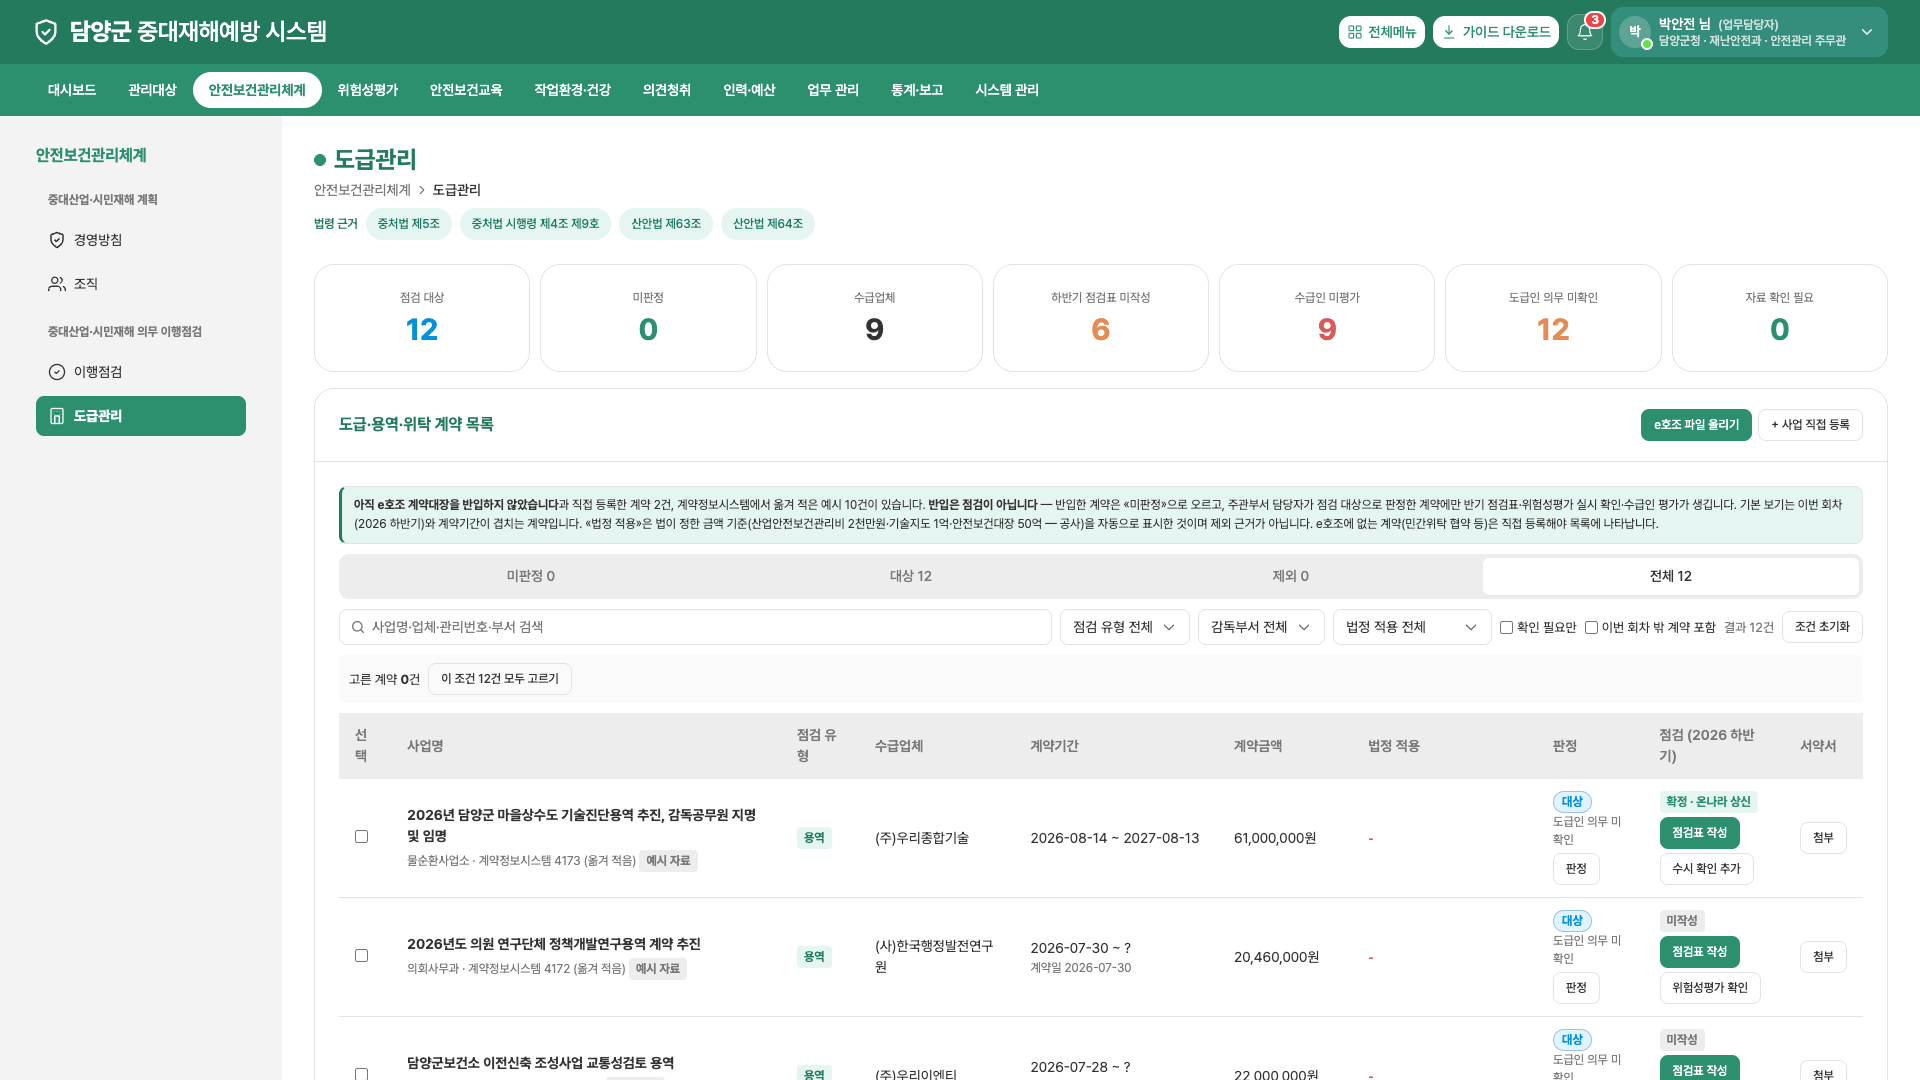
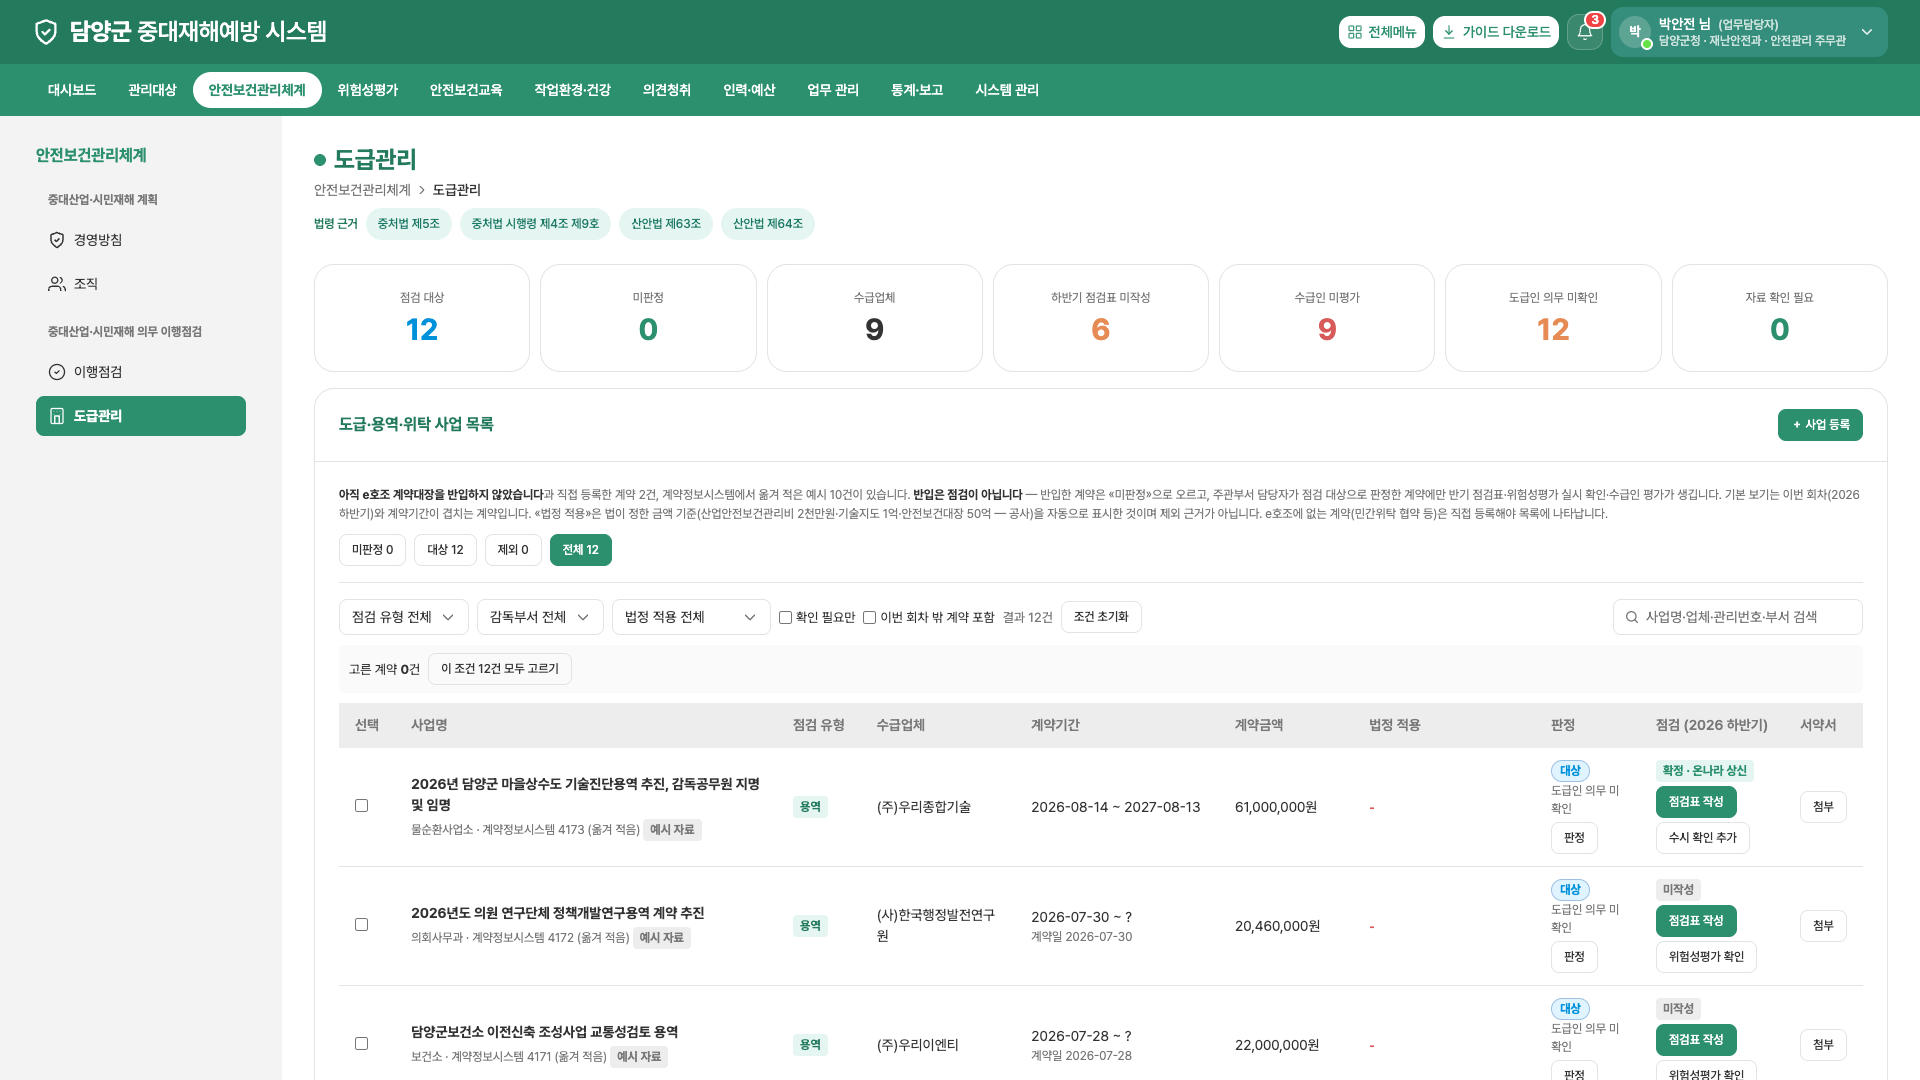
소개 자료 — 도급 계약 목록을 운영 배치로 맞추고 C06·C07 재캡처
운영 화면 스킨이 켜졌을 때만:
- 안내문을 회색 본문으로, 판정 탭을 따로 선 버튼으로, 검색칸을 필터 줄 오른쪽 끝으로
- 표 머리 한 줄 유지
- 카드 제목 «도급·용역·위탁 사업 목록», 버튼 «＋ 사업 등록» 하나(기존 직접 등록과 같은 창)
기본 화면의 제목·버튼(e호조 파일 올리기 포함)은 그대로다. menu.js 에는 스킨용 훅
클래스(con-notice·con-tabs·con-filters)와 스킨 분기만 더했다.

diff --git a/js/menu.js b/js/menu.js
@@ -2485,9 +2485,9 @@
             const condN = ['q', 'cat', 'dept', 'legal'].filter(k => S[k]).length + (S.flag ? 1 : 0) + (S.wide ? 1 : 0);
             const tabN = t => t === '전체' ? base.length : base.filter(r => r.judge === t).length;
             const filterBar =
-                '<div class="tabs" role="tablist" style="margin-bottom:10px;">' + ['미판정', '대상', '제외', '전체'].map(t =>
+                '<div class="tabs con-tabs" role="tablist" style="margin-bottom:10px;">' + ['미판정', '대상', '제외', '전체'].map(t =>
                     '<button type="button" role="tab" class="tab' + (S.tab === t ? ' active' : '') + '" aria-selected="' + (S.tab === t) + '" onclick="PG.conTab(\'' + t + '\')">' + t + ' ' + tabN(t).toLocaleString() + '</button>').join('') + '</div>' +
-                '<div style="display:flex; flex-wrap:wrap; gap:var(--sp-2); align-items:center; margin-bottom:10px;">' +
+                '<div class="con-filters" style="display:flex; flex-wrap:wrap; gap:var(--sp-2); align-items:center; margin-bottom:10px;">' +
                     '<input type="search" id="cn-q" class="form-input" style="min-width:220px; flex:1;" placeholder="사업명·업체·관리번호·부서 검색" value="' + esc(S.q) + '" oninput="PG.conQ(this)">' +
                     (catsHere.length > 1 ? '<select class="form-select" style="width:auto;" aria-label="점검 유형" onchange="PG.conSet(\'cat\', this.value)">' + opt('', '점검 유형 전체', S.cat) + catsHere.map(c => opt(c, c, S.cat)).join('') + '</select>' : '') +
                     (deptsHere.length > 1 ? '<select class="form-select" style="width:auto;" aria-label="감독부서" onchange="PG.conSet(\'dept\', this.value)">' + opt('', '감독부서 전체', S.dept) + deptsHere.map(d => opt(d, d, S.dept)).join('') + '</select>' : '') +
@@ -2509,6 +2509,7 @@
                       '</div>'
                     : '');
 
+            const opsSkin = document.documentElement.getAttribute('data-skin') === 'ops';
             const heads = (C.canManage() ? ['선택'] : []).concat(['사업명', '점검 유형', '수급업체', '계약기간', '계약금액', '법정 적용', '판정', '점검 (' + rd.label + ')', '서약서']);
             const table = pageRows.length
                 ? tbl(heads, pageRows.map(r => (C.canManage()
@@ -2530,8 +2531,9 @@
                 [dutyUnknown ? 'warning' : 'success', dutyUnknown.toLocaleString(), '도급인 의무 미확인'],
                 [flagN ? 'danger' : 'success', flagN.toLocaleString(), '자료 확인 필요'],
             ]) +
-            sectionCard('도급·용역·위탁 계약 목록',
-                '<div class="check-notice" style="margin-bottom:10px;">' +
+            /* 운영 화면 스킨(캡처용)에서는 운영과 같은 제목·버튼을 쓴다 — 기본 화면은 그대로다. */
+            sectionCard(opsSkin ? '도급·용역·위탁 사업 목록' : '도급·용역·위탁 계약 목록',
+                '<div class="check-notice con-notice" style="margin-bottom:10px;">' +
                     (ehojoN
                         ? '<b>e호조 계약대장에서 반입한 계약 ' + ehojoN.toLocaleString() + '건</b>(최근 추출 기준일 ' + esc((liveImp && liveImp.extracted) || '-') + ')'
                         : '<b>아직 e호조 계약대장을 반입하지 않았습니다</b>') +
@@ -2539,10 +2541,12 @@
                     '<b>반입은 점검이 아닙니다</b> — 반입한 계약은 «미판정»으로 오르고, 주관부서 담당자가 점검 대상으로 판정한 계약에만 반기 점검표·위험성평가 실시 확인·수급인 평가가 생깁니다. ' +
                     '기본 보기는 이번 회차(' + rd.label + ')와 계약기간이 겹치는 계약입니다. «법정 적용»은 법이 정한 금액 기준(산업안전보건관리비 2천만원·기술지도 1억·안전보건대장 50억 — 공사)을 자동으로 표시한 것이며 제외 근거가 아닙니다. e호조에 없는 계약(민간위탁 협약 등)은 직접 등록해야 목록에 나타납니다.' +
                 '</div>' + filterBar + table,
-                '<div style="display:flex; gap:6px;">' +
-                    (C.canManage() ? '<button class="btn btn-sm btn-primary" onclick="PG.conImport()">e호조 파일 올리기</button>' : '') +
-                    (canAct() ? '<button class="btn btn-sm btn-outline" onclick="PG.conAdd()">+ 사업 직접 등록</button>' : '') +
-                '</div>') +
+                (opsSkin
+                    ? (canAct() ? '<button class="btn btn-sm btn-primary" onclick="PG.conAdd()">＋ 사업 등록</button>' : '')
+                    : '<div style="display:flex; gap:6px;">' +
+                        (C.canManage() ? '<button class="btn btn-sm btn-primary" onclick="PG.conImport()">e호조 파일 올리기</button>' : '') +
+                        (canAct() ? '<button class="btn btn-sm btn-outline" onclick="PG.conAdd()">+ 사업 직접 등록</button>' : '') +
+                      '</div>')) +
             sectionCard('수급인 안전보건 수준 평가',
                 (vendors.length
                     ? tbl(['업체', '대상 사업', '평가 시점', '상태', ''], vendors.map((v, ix) => [

diff --git a/css/ops-skin.css b/css/ops-skin.css
@@ -236,6 +236,18 @@ html[data-skin="ops"] .roc-toolbar + .check-notice > :not(:first-child) { displa
 html[data-skin="ops"] .roc-toolbar + .check-notice > :first-child { display: flex; align-items: center; gap: var(--sp-2); }
 html[data-skin="ops"] .roc-toolbar + .check-notice > :first-child::after { content: "펼쳐 보기 ▾"; margin-left: auto; font-size: var(--fs-12); font-weight: var(--fw-medium); color: var(--ops-primary); }
 
+/* 도급관리 계약 목록: 안내는 회색 본문, 판정 탭은 따로 선 버튼, 검색칸은 줄 오른쪽 끝(운영 화면과 같은 배치) */
+html[data-skin="ops"] .con-notice { background: none; border: 0; padding: 0; font-size: var(--fs-12); line-height: 1.6; color: var(--ops-fg-muted); }
+html[data-skin="ops"] .con-notice b { color: var(--ops-fg); }
+html[data-skin="ops"] .con-tabs { background: none; padding: 0 0 var(--sp-4); border-radius: 0; gap: var(--sp-2); border-bottom: 1px solid var(--ops-border); margin-bottom: var(--sp-4) !important; }
+html[data-skin="ops"] .con-tabs .tab {
+  flex: none; min-height: 32px; padding: 0 12px; border: 1px solid var(--ops-border); border-radius: var(--radius-button);
+  background: var(--surface); color: var(--ops-fg); font-size: var(--fs-12); font-weight: var(--fw-medium); box-shadow: none;
+}
+html[data-skin="ops"] .con-tabs .tab.active { background: var(--ops-primary); border-color: var(--ops-primary); color: var(--surface); }
+html[data-skin="ops"] .card:has(.con-tabs) .table-figma thead th { white-space: nowrap; }
+html[data-skin="ops"] .con-filters #cn-q { order: 99; flex: 0 0 250px !important; min-width: 0 !important; margin-left: auto; }
+
 /* --- 운영 화면에 없는 프로토타입 전용 크롬은 감춘다 --- */
 html[data-skin="ops"] .dy-demo-bar,
 html[data-skin="ops"] .dy-notice,
